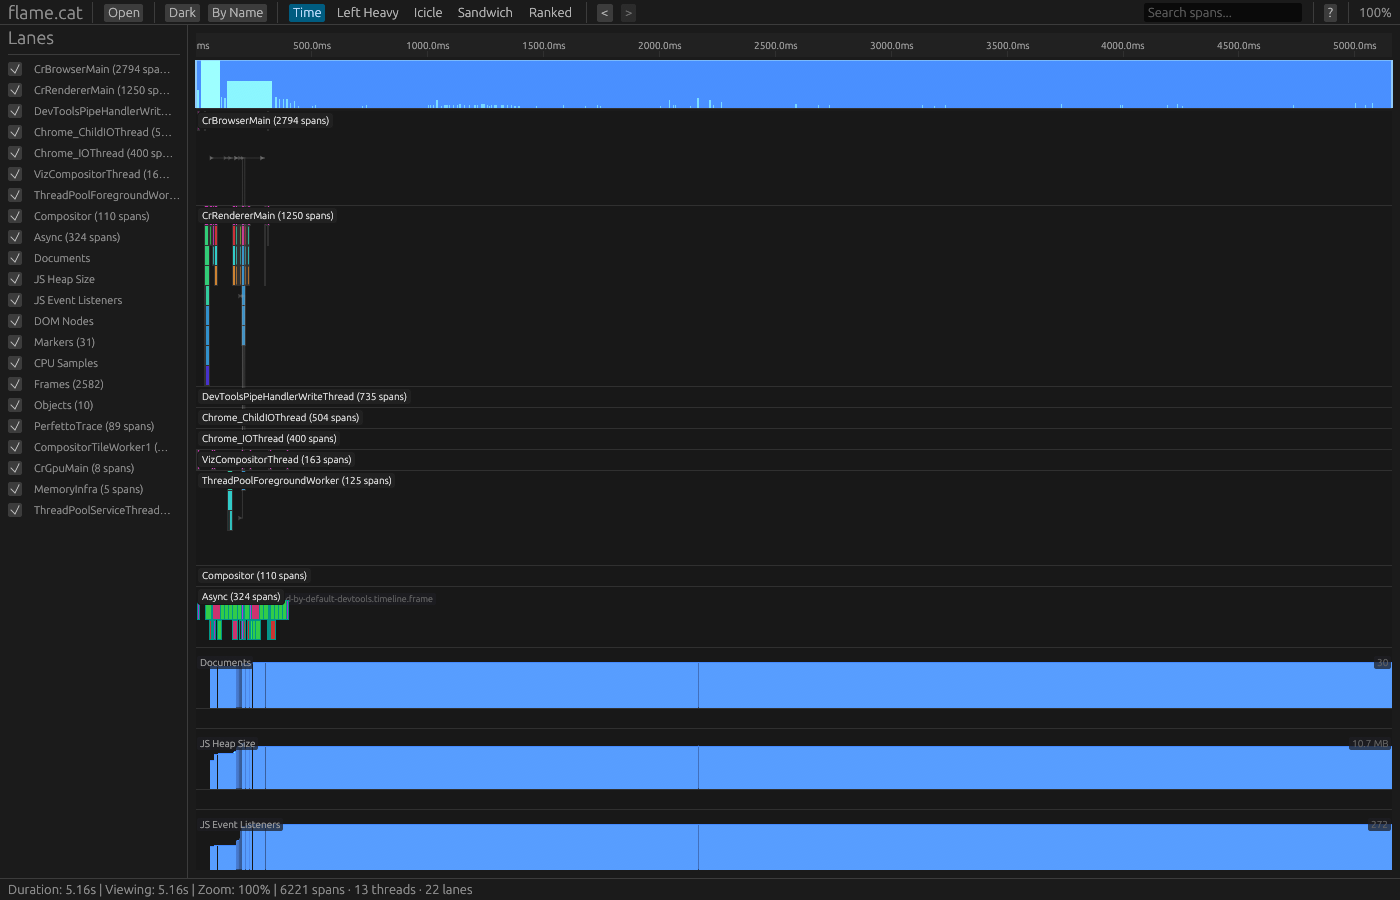
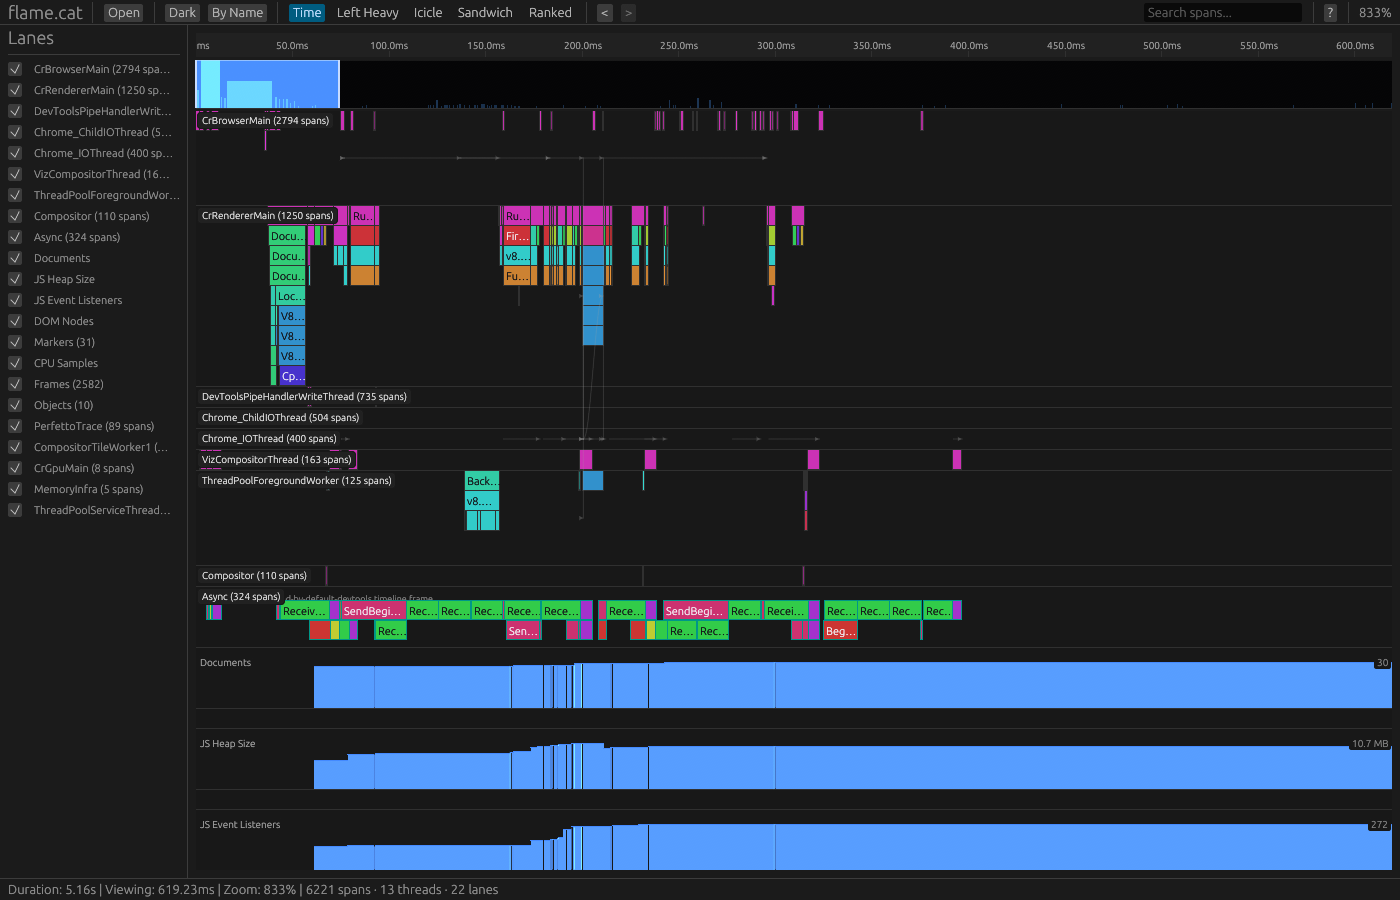
polish: opaque DrawText backgrounds, brighter minimap, final screenshots
- DrawText background pills now fully opaque (was alpha 190)
  Counter labels 'JS Heap Size', 'Documents' etc fully readable
- Minimap viewport overlay boosted to alpha 100, brighter handles
- All 4 screenshots retaken zoomed to 833% for detail visibility
- All tests pass

diff --git a/crates/ui/src/theme.rs b/crates/ui/src/theme.rs
@@ -68,9 +68,10 @@ fn resolve_dark(token: ThemeToken) -> ResolvedColor {
         ToolbarTabHover => ResolvedColor::rgba(255, 255, 255, 15),
 
         // Minimap background — distinct from lane bg
-        MinimapBackground => ResolvedColor::rgb(8, 8, 10),
-        MinimapViewport => ResolvedColor::rgba(68, 138, 255, 80),
-        MinimapDensity => ResolvedColor::rgb(130, 200, 255),
+        MinimapBackground => ResolvedColor::rgb(10, 10, 12),
+        MinimapViewport => ResolvedColor::rgba(68, 138, 255, 100),
+        MinimapDensity => ResolvedColor::rgb(80, 160, 255),
+        MinimapHandle => ResolvedColor::rgb(200, 220, 255),
         MinimapHandle => ResolvedColor::rgb(144, 202, 249),
 
         InlineLabelText => ResolvedColor::rgb(224, 224, 224),

diff --git a/crates/ui/src/renderer.rs b/crates/ui/src/renderer.rs
@@ -240,8 +240,8 @@ pub fn render_commands(
                     galley.size() + egui::vec2(6.0, 2.0),
                 );
                 let bg_color = match mode {
-                    ThemeMode::Dark => egui::Color32::from_rgba_unmultiplied(30, 30, 35, 190),
-                    ThemeMode::Light => egui::Color32::from_rgba_unmultiplied(250, 250, 252, 210),
+                    ThemeMode::Dark => egui::Color32::from_rgb(24, 24, 24),
+                    ThemeMode::Light => egui::Color32::from_rgb(250, 250, 252),
                 };
                 painter.rect_filled(bg_rect, CornerRadius::same(2), bg_color);
                 painter.galley(text_pos, galley, text_color);
